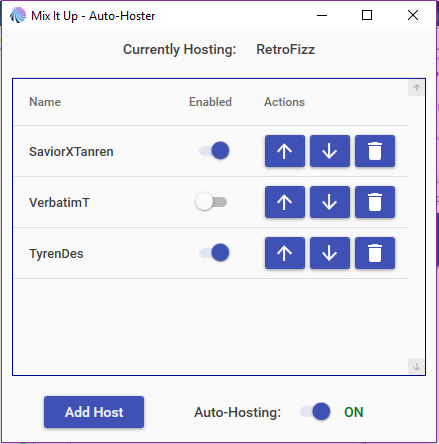
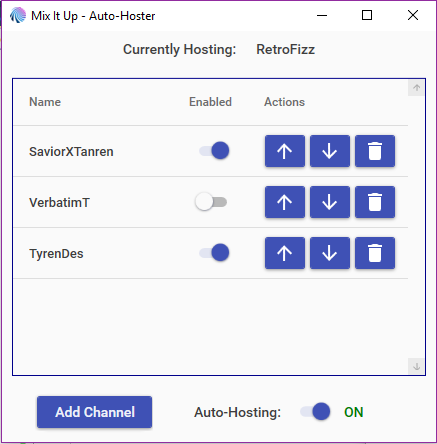
- Updating button text

diff --git a/MixItUp.AutoHoster/MainWindow.xaml b/MixItUp.AutoHoster/MainWindow.xaml
@@ -100,7 +100,7 @@
 
             <Grid Grid.Row="4" HorizontalAlignment="Center">
                 <Grid.ColumnDefinitions>
-                    <ColumnDefinition Width="100" />
+                    <ColumnDefinition Width="115" />
                     <ColumnDefinition Width="50" />
                     <ColumnDefinition Width="90" />
                     <ColumnDefinition Width="10" />
@@ -109,7 +109,7 @@
                     <ColumnDefinition Width="50" />
                 </Grid.ColumnDefinitions>
 
-                <Button x:Name="AddHostButton" Click="AddHostButton_Click">Add Host</Button>
+                <Button x:Name="AddChannelButton" Click="AddChannelButton_Click">Add Channel</Button>
 
                 <TextBlock Grid.Column="2" VerticalAlignment="Center">Auto-Hosting:</TextBlock>
 

diff --git a/MixItUp.AutoHoster/MainWindow.xaml.cs b/MixItUp.AutoHoster/MainWindow.xaml.cs
@@ -91,7 +91,7 @@ namespace MixItUp.AutoHoster
             });
         }
 
-        private async void AddHostButton_Click(object sender, RoutedEventArgs e)
+        private async void AddChannelButton_Click(object sender, RoutedEventArgs e)
         {
             await this.RunAsyncOperation(async () =>
             {
